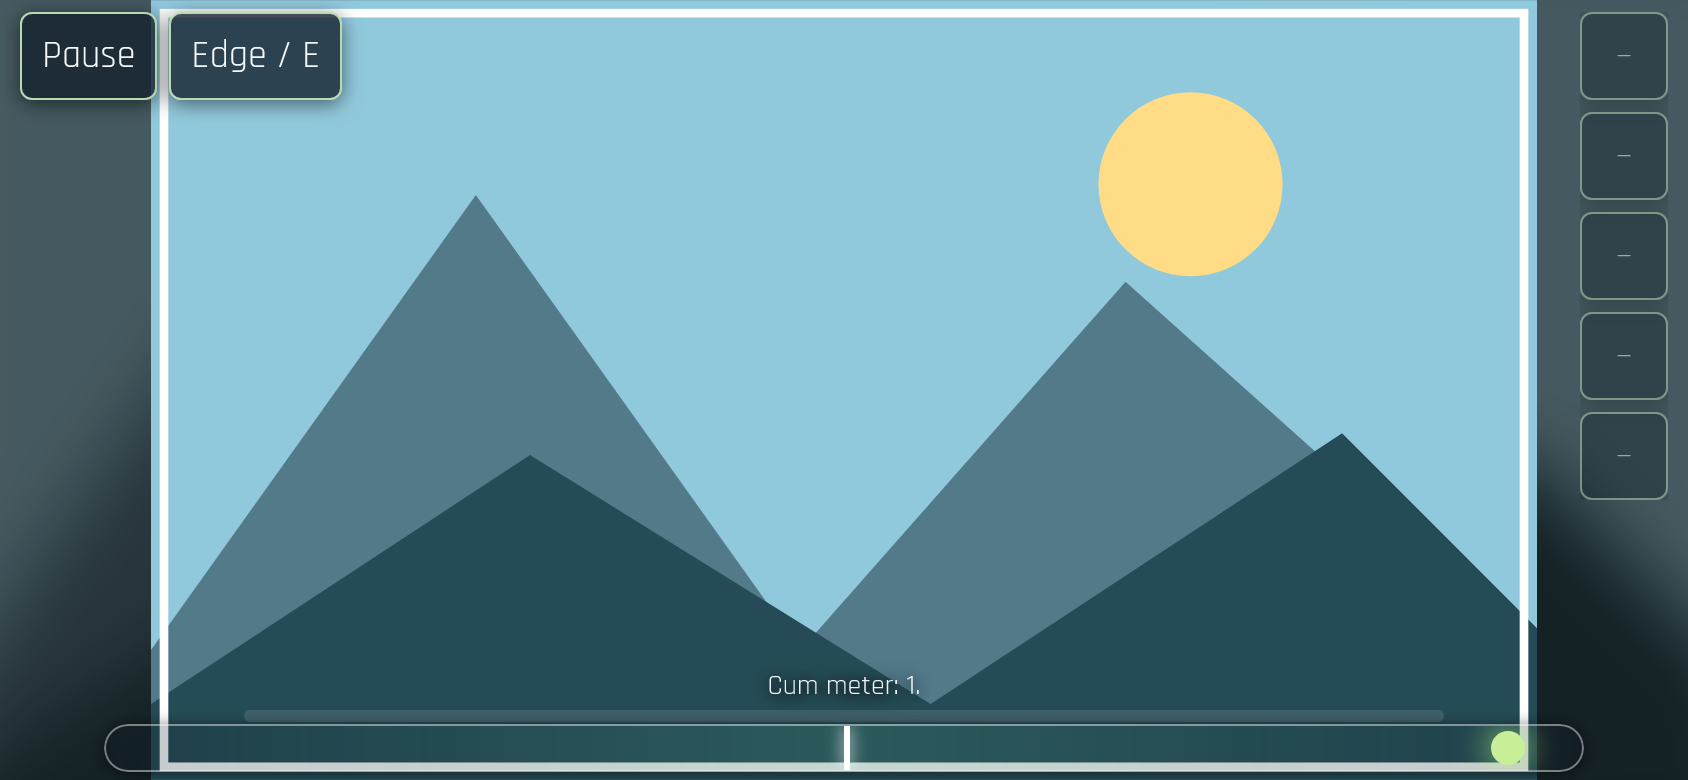
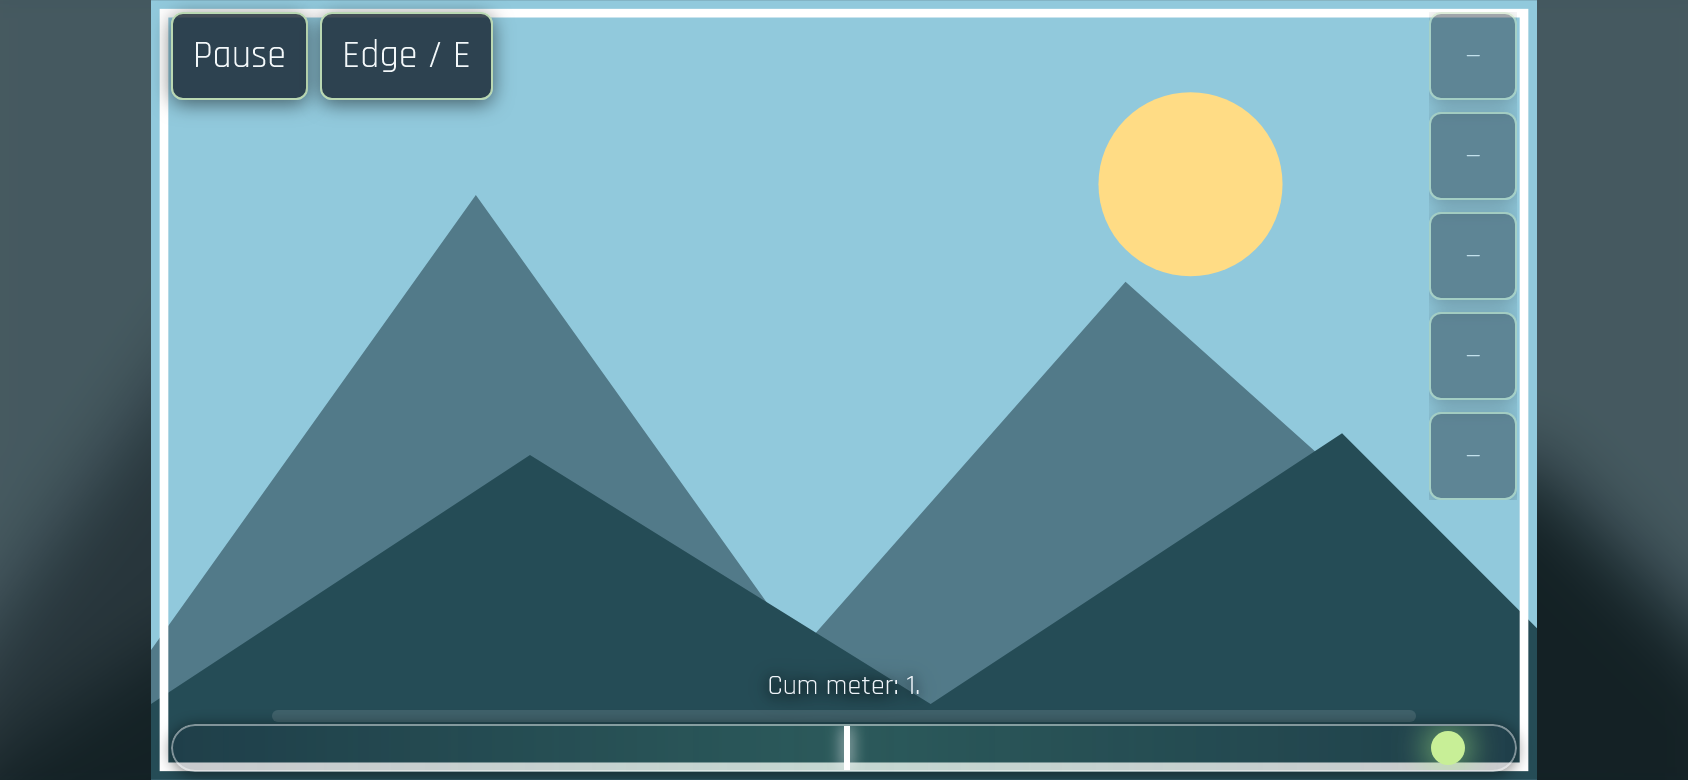
Anchor mobile controls and beatbar to visible media

diff --git a/static/fanservice/play.css b/static/fanservice/play.css
@@ -15,7 +15,7 @@ main { padding-left: max(12px, var(--safe-left)); padding-right: max(12px, var(-
 #session-background img, #session-background video { width: 100%; height: 100%; object-fit: cover; filter: blur(18px) brightness(.45) saturate(.8); transform: scale(1.05); }
 #stage { position: absolute; z-index: 1; inset: 0; }
 #stage img, #stage video { display: block; width: 100%; height: 100%; object-fit: contain; }
-#session-hud { position: absolute; z-index: 2; inset: 0; display: flex; flex-direction: column; justify-content: space-between; pointer-events: none; }
+#session-hud { position: absolute; z-index: 2; inset: 0; display: flex; flex-direction: column; justify-content: space-between; pointer-events: none; container-type: size; }
 #hud-top { display: flex; align-items: flex-start; justify-content: space-between; gap: 8px; padding: max(10px, var(--safe-top)) max(10px, var(--safe-right)) 0 max(10px, var(--safe-left)); }
 #gameplay-stage[data-holding-hand="left"] #hud-top { flex-direction: row-reverse; }
 #item-controls { display: flex; flex-direction: column; gap: 6px; max-height: 55dvh; overflow: auto; max-width: min(38vw, 180px); pointer-events: auto; }
@@ -33,8 +33,8 @@ main { padding-left: max(12px, var(--safe-left)); padding-right: max(12px, var(-
 #hud-bottom { display: flex; flex-direction: column; align-items: center; gap: 2px; padding: 0 max(10px, var(--safe-right)) max(8px, var(--safe-bottom)) max(10px, var(--safe-left)); text-align: center; text-shadow: 0 1px 6px #000, 0 1px 12px #000; }
 #caption, #voice-status, #media-status, #status { max-width: min(92vw, 700px); margin: 0; padding: 2px 6px; color: #f3f8fa; font-size: clamp(13px, 1.8vw, 18px); line-height: 1.1; overflow-wrap: anywhere; }
 #caption:empty, #voice-status:empty, #media-status:empty, #status:empty { display: none; }
-#meter { width: min(76vw, 600px); height: 8px; margin: 3px 0; accent-color: #b0e4c0; }
-#beats { position: relative; width: min(90vw, 740px); height: 32px; overflow: hidden; border: 1px solid #ffffff70; border-radius: 20px; background: linear-gradient(90deg, #0a122039, #3a79664d 50%, #0a122039); box-shadow: 0 1px 8px #0008; }
+#meter { width: min(85%, 600px); height: 8px; margin: 3px 0; accent-color: #b0e4c0; }
+#beats { position: relative; width: min(100%, 740px); height: 32px; flex-shrink: 0; overflow: hidden; border: 1px solid #ffffff70; border-radius: 20px; background: linear-gradient(90deg, #0a122039, #3a79664d 50%, #0a122039); box-shadow: 0 1px 8px #0008; }
 #center { position: absolute; left: 50%; height: 100%; width: 3px; background: #fff; box-shadow: 0 0 8px #fff; }
 #beat { position: absolute; top: 50%; translate: -50% -50%; width: 23px; height: 23px; border-radius: 50%; background: #c8ef97; box-shadow: 0 0 18px #b5ff8a; }
 #summary { white-space: pre-wrap; }
@@ -81,4 +81,12 @@ body[data-session-state="paused"] #item-controls, body[data-session-state="pause
   #controls { flex-direction: column; align-items: flex-end; }
   #controls button { font-size: 15px; }
   #hud-bottom { padding-bottom: max(12px, var(--safe-bottom)); }
+}
+
+@container (max-height: 300px) {
+  #objective-status { display: none; }
+  #item-controls { position: absolute; bottom: 64px; left: 10px; right: 10px; flex-direction: row; flex-wrap: nowrap; max-width: none; max-height: 48px; justify-content: flex-start; }
+  #gameplay-stage[data-holding-hand="left"] #item-controls { justify-content: flex-end; }
+  #item-controls button { width: 44px; min-width: 44px; max-width: 44px; overflow: hidden; text-overflow: ellipsis; white-space: nowrap; }
+  #controls { margin-left: auto; flex-direction: row; max-width: 100%; }
 }

diff --git a/static/fanservice/play.js b/static/fanservice/play.js
@@ -205,6 +205,14 @@ function makeRun(){
 }
 function installRun(value){window.FanserviceVoice.stop();vibration.cancel();cancelFinishHold();run=value;state=run.state;decks=rules.mediaPools(media,FanserviceModifiers.options(state.modifiers));remaining={};}
 function pauseVisualMedia(){$('video').pause();$('background-video').pause();}
+function updateMediaBounds(){
+ const surface=$('stage'),visual=$($('video').hidden?'image':'video'),width=visual.videoWidth||visual.naturalWidth,height=visual.videoHeight||visual.naturalHeight;
+ if(!width||!height||!surface.clientWidth||!surface.clientHeight)return;
+ const scale=Math.min(surface.clientWidth/width,surface.clientHeight/height),w=width*scale,h=height*scale,hud=$('session-hud');
+ Object.assign(hud.style,{inset:'auto',left:(surface.clientWidth-w)/2+'px',top:(surface.clientHeight-h)/2+'px',width:w+'px',height:h+'px'});
+}
+new ResizeObserver(updateMediaBounds).observe($('stage'));
+$('image').addEventListener('load',updateMediaBounds);$('video').addEventListener('loadedmetadata',updateMediaBounds);
 function playVisualMedia(){
  if($('video').hidden)return;
  $('video').play().catch(error=>status('Video access failed: '+error.message));
@@ -225,6 +233,7 @@ function showMedia(item,position=0,{restart=false}={}){
   seekMedia(position);
   if(started&&!paused)playVisualMedia();
  }else if(!same){$('image').src=item.url;$('background-image').src=item.url;}
+ updateMediaBounds();
 }
 function mediaView(){if(!currentMedia)return null;const time=$('video').hidden?0:$('video').currentTime;return {id:currentMedia.id,position:paused||pendingMediaSeek!==null?mediaPosition:Number.isFinite(time)&&time>0?time:mediaPosition};}
 $('video').addEventListener('seeked',()=>{if(pendingMediaSeek!==null&&Math.abs($('video').currentTime-pendingMediaSeek)<.1)pendingMediaSeek=null;});

diff --git a/static/fanservice/sw.js b/static/fanservice/sw.js
@@ -1,5 +1,5 @@
 'use strict';
-const CACHE='fanservice-shell-v33';
+const CACHE='fanservice-shell-v34';
 const SHELL=['./','index.html','play.html','play.css','style.css','presentation.css','assets/Rajdhani-Regular.ttf','assets/Orbitron-Variable.ttf','assets/shopkeeper-body.png','assets/shopkeeper-face.png','assets/shopkeeper-hair.png','assets/shopkeeper-eyes.png','assets/app-icon-192.png','assets/app-icon-512.png','kenney.css','model.js','app.js','chpack.js','archive-save.js','export-ui.js','portable.js','store.js','rules.js','voice.js','tower.js','inventory.js','items.js','objectives.js','progression.js','modifiers.js','run.js','data/modes.json','data/native-contract.json','play.js','manifest.webmanifest','assets/pack-cover.svg','assets/button_rectangle_flat.png','assets/button_rectangle_border.png','assets/click_001.wav','assets/confirmation_001.wav','assets/back_001.wav','assets/film-projector.svg','assets/padlock.svg'];
 SHELL.push('media.js','economy.js','profile-sync.js','cards.js','data/card-rules.json','edge.js','background.js','vibration.js','session_metrics.js','session_presets.js');
 self.addEventListener('install',e=>e.waitUntil(caches.open(CACHE).then(c=>c.addAll(SHELL)).then(()=>self.skipWaiting())));

diff --git a/tests/fanservice_service_worker.test.js b/tests/fanservice_service_worker.test.js
@@ -19,8 +19,8 @@ test('service worker retires only its older shell generations after current shel
 test('offline fetch uses the current shell rather than any older matching cache',async()=>{
  const w=worker();w.data.set('fanservice-shell-v1',new Map([['https://test.invalid/fanservice/rules.js',new Response('stale')]]));
  await w.lifecycle('install');w.setNetwork(async()=>{throw Error('offline');});
- const response=await w.request('https://test.invalid/fanservice/rules.js?session=one');assert.match(await response.text(),/^fanservice-shell-v33:/);
- assert.match(await (await w.request('https://test.invalid/fanservice/session_metrics.js')).text(),/^fanservice-shell-v33:/);
+ const response=await w.request('https://test.invalid/fanservice/rules.js?session=one');assert.match(await response.text(),/^fanservice-shell-v34:/);
+ assert.match(await (await w.request('https://test.invalid/fanservice/session_metrics.js')).text(),/^fanservice-shell-v34:/);
  assert.equal((await w.request('https://test.invalid/fanservice/not-cached')).type,'error');
 });
 

diff --git a/docs/fanservice/evidence/session-hud-20261109.md b/docs/fanservice/evidence/session-hud-20261109.md
@@ -17,3 +17,7 @@ The pause menu holds the actual session clock, video and soundtrack, keeps Resum
 - Screenshots with neutral synthetic artwork: [landscape](session-hud-20261109/landscape.png), [portrait](session-hud-20261109/portrait.png), [pause menu](session-hud-20261109/pause.png). These were visually reviewed for clipping, readability and layering. The test artwork is not player content.
 
 Physical iPhone 17 Pro Safari confirmation of this redesigned HUD remains pending. Earlier physical reports confirm connected loading, pack creation, media/beat playback, the old portrait/landscape fit, and same-file return after the preceding resume fix; they do not establish this new layout's device acceptance. iOS version, exact physical video offset, offline/provider transfers and supported wake/vibration observations remain unverified.
+
+## Visible-media overlay correction — 2026-11-10
+
+The physical review said the design was closer, but controls and the beatbar needed to overlay the actual picture. The HUD previously filled the viewport, leaving controls in the letterboxed background when media used `object-fit: contain`. It now tracks the visible media rectangle using intrinsic image/video dimensions and the stage size, updating on image load, video metadata and resize. Short media rectangles use a compact horizontal inventory row so slots remain over the picture. The beatbar remains transparent at the bottom of that rectangle. Cache v34 delivers the correction. Edge and WebKit layout checks pass; tests assert the HUD matches the 16:9 fixture's aspect ratio in both orientations and that the beatbar lies inside it. All 261 Node tests pass. Updated landscape and portrait screenshots are retained above. Physical confirmation of this correction remains pending.
